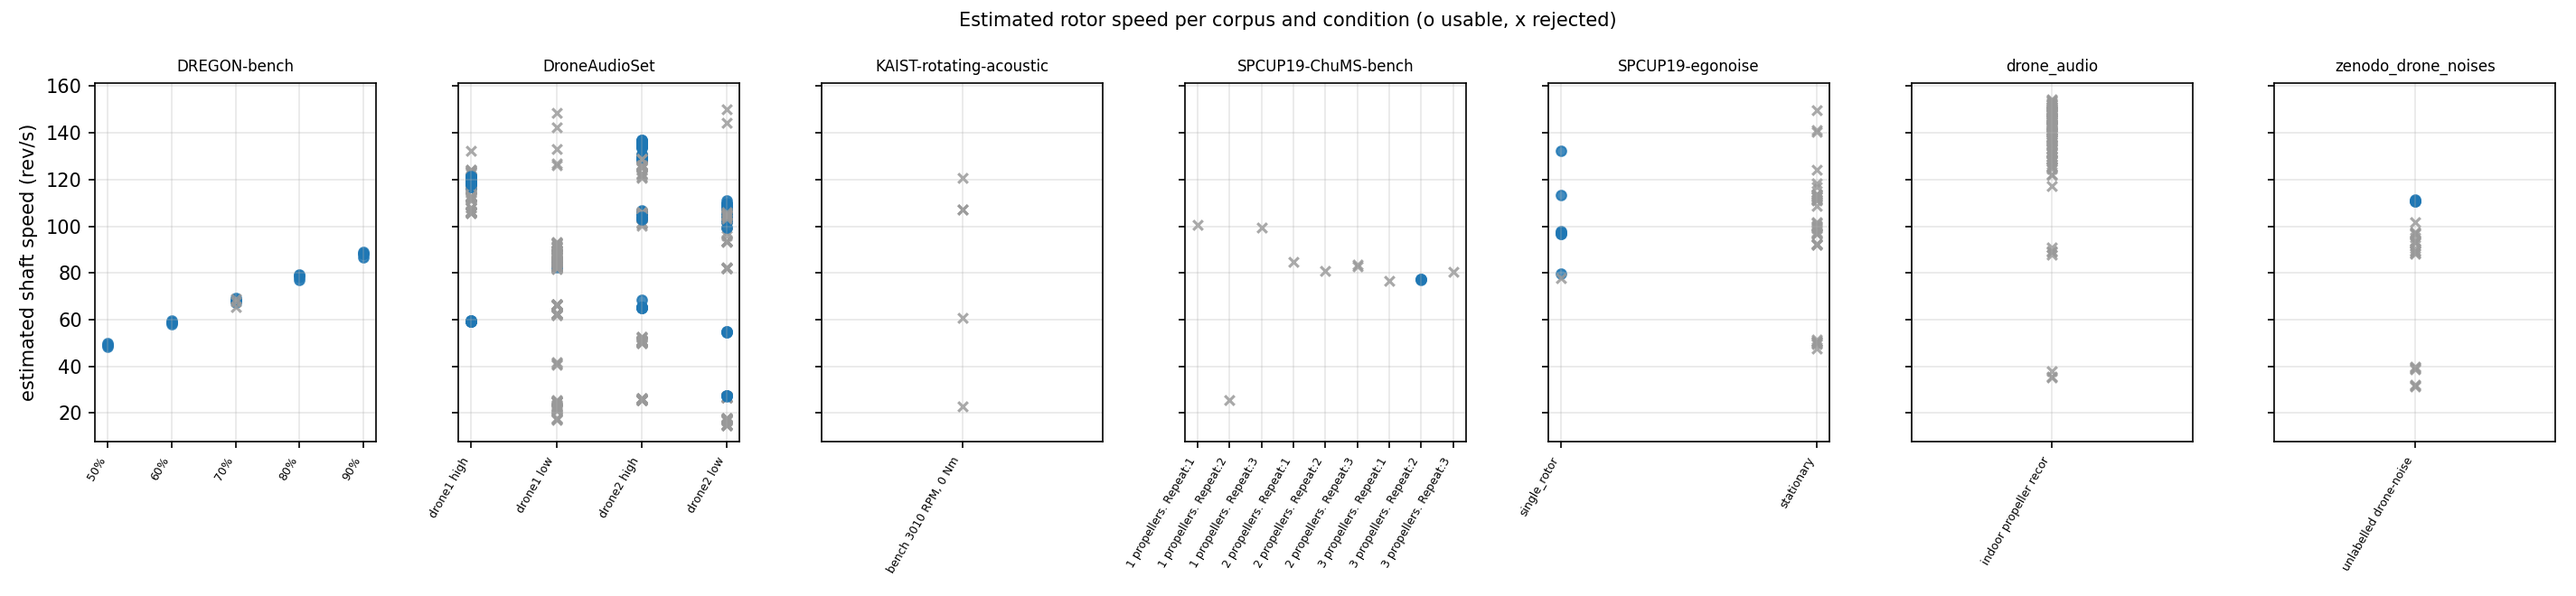
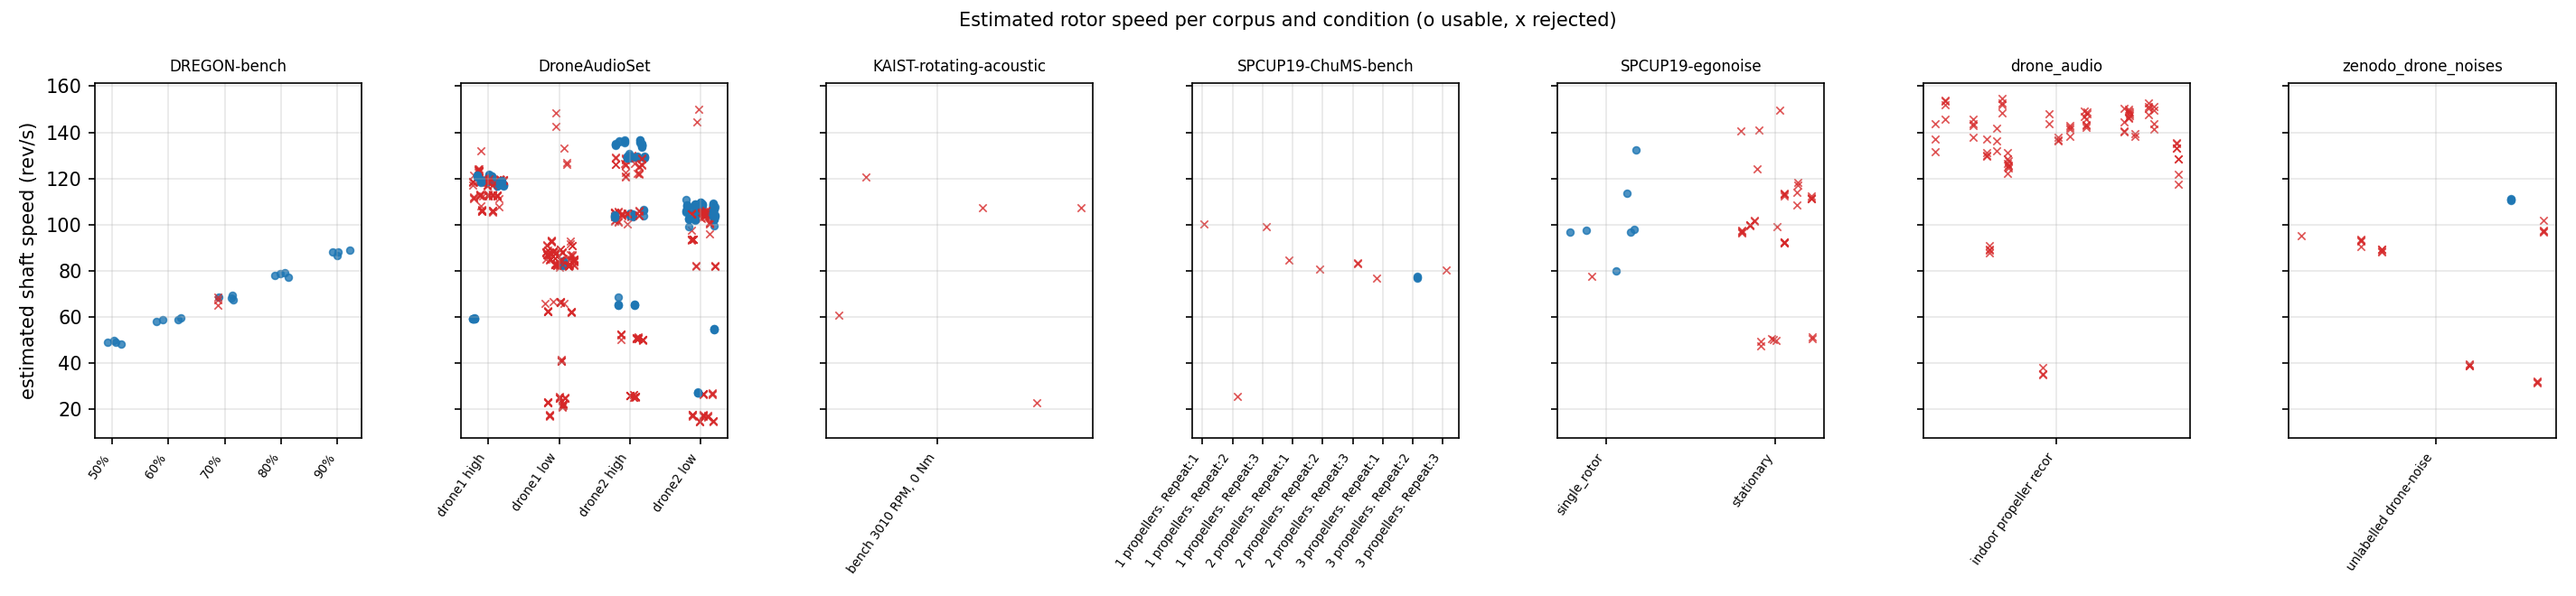
noise-v2 survey figure: jitter + usable/rejected colours

diff --git a/scripts/noise_v2_shaft_phase.py b/scripts/noise_v2_shaft_phase.py
@@ -75,12 +75,12 @@ ROOT = Path(__file__).resolve().parents[1]
 if str(ROOT / "src") not in sys.path:
     sys.path.insert(0, str(ROOT / "src"))
 
-import matplotlib
+import matplotlib  # noqa: E402
 
 matplotlib.use("Agg")
-import matplotlib.pyplot as plt
-from scipy.optimize import least_squares
-from scipy.signal import butter, sosfilt_zi, sosfiltfilt, sosfreqz, welch
+import matplotlib.pyplot as plt  # noqa: E402
+from scipy.optimize import least_squares  # noqa: E402
+from scipy.signal import butter, sosfiltfilt, sosfreqz, welch  # noqa: E402
 
 # ─── frozen analysis constants ────────────────────────────────────────────────
 
@@ -483,9 +483,7 @@ def quantisation(track: NativeTrack) -> dict[str, Any]:
     step = float(np.percentile(nz, 0.5))
     ratios = nz / step
     out["step_rps_measured"] = step
-    out["near_integer_fraction"] = float(
-        (np.abs(ratios - np.round(ratios)) < 0.05).mean()
-    )
+    out["near_integer_fraction"] = float((np.abs(ratios - np.round(ratios)) < 0.05).mean())
     out["distinct_values"] = int(np.unique(np.round(track.raw_rps / step)).size)
     declared = DECLARED_STEP_RPS.get(track.rig)
     if declared is not None:
@@ -517,7 +515,9 @@ def lag_grid(fs: float, hi_s: float = S_LAG_MAX_S, n: int = S_N_LAGS) -> np.ndar
     return np.unique(np.round(np.geomspace(lo, hi, n) * fs).astype(np.int64))
 
 
-def structure_function(theta_parts: list[np.ndarray], lags: np.ndarray) -> tuple[np.ndarray, np.ndarray]:
+def structure_function(
+    theta_parts: list[np.ndarray], lags: np.ndarray
+) -> tuple[np.ndarray, np.ndarray]:
     """``(S, n)`` for ``S(tau) = Var[theta(t+tau) - theta(t)]`` pooled over parts."""
     num = np.zeros(lags.size)
     cnt = np.zeros(lags.size)
@@ -548,7 +548,9 @@ def local_slope(tau: np.ndarray, s: np.ndarray) -> np.ndarray:
     return out
 
 
-def slope_crossing(tau: np.ndarray, slope: np.ndarray, target: float = SLOPE_TARGET) -> float | None:
+def slope_crossing(
+    tau: np.ndarray, slope: np.ndarray, target: float = SLOPE_TARGET
+) -> float | None:
     """First lag where the local slope drops through ``target`` (log-interpolated)."""
     ok = np.isfinite(slope)
     t, s = tau[ok], slope[ok]
@@ -807,6 +809,7 @@ def analyse_telemetry_rig(
 
 def pool_rotors(per_rotor: list[dict[str, Any]]) -> dict[str, Any]:
     """Median over rotors of the identified per-rotor quantities."""
+
     def med(path: list[str]) -> float | None:
         vals = []
         for row in per_rotor:
@@ -836,9 +839,7 @@ def pool_rotors(per_rotor: list[dict[str, Any]]) -> dict[str, Any]:
         "tau_slope1p5_s": med(["tau_slope1p5_s"]),
         "lam_from_slope1p5_1_s": med(["lam_from_slope1p5_1_s"]),
         "nu_rms_rad_s": med(["nu_rms_rad_s"]),
-        "preferred_by_aic": (
-            max(set(prefs), key=prefs.count) if prefs else None
-        ),
+        "preferred_by_aic": (max(set(prefs), key=prefs.count) if prefs else None),
         "n_rotors_preferring_ou": int(sum(p == "ou" for p in prefs)),
     }
 
@@ -920,7 +921,6 @@ RATE_ERROR_INVARIANT = (
     "|gamma(tau)| is invariant to a constant rate error: the lagged product "
     "gains only the t-independent factor exp(-i 2 pi k d tau)"
 )
-
 
 
 def _raw_g2(zd: np.ndarray, lag: int) -> np.ndarray:
@@ -1026,7 +1026,6 @@ def cross_g2(
     n_increments = max((zk.shape[1] - lag) / max(oversamp, float(lag)), 2.0)
     floor = np.clip(np.asarray(sur, dtype=np.float64) + 1.0 / n_increments, 0.0, 0.95)
     return (g2 - floor) / (1.0 - floor), floor
-
 
 
 def unwrapped_V(zd: np.ndarray, lag: int, oversamp: float) -> tuple[np.ndarray, float]:
@@ -1163,15 +1162,13 @@ def fit_Vk(
                     return k**2 * v_theta(t, sigma, lam) + 2.0 * dk[j] * np.abs(t)
 
                 if estimator == "unwrapped":
-                    out[sel] = (
-                        0.5 * (vk(a[sel]) + vk(b[sel]) - 2.0 * vk(c0)[None, :])
-                    ) @ s_w + ck[j]
+                    out[sel] = (0.5 * (vk(a[sel]) + vk(b[sel]) - 2.0 * vk(c0)[None, :])) @ s_w + ck[
+                        j
+                    ]
                 else:
                     cc = np.exp(-0.5 * np.clip(vk(a[sel]), 0.0, 700.0)) @ s_w
                     c00 = float(np.exp(-0.5 * np.clip(vk(c0), 0.0, 700.0)) @ s_w)
-                    out[sel] = (
-                        -2.0 * np.log(np.maximum(cc / max(c00, 1e-300), 1e-300)) + ck[j]
-                    )
+                    out[sel] = -2.0 * np.log(np.maximum(cc / max(c00, 1e-300), 1e-300)) + ck[j]
             return out
 
         return predict
@@ -1293,12 +1290,9 @@ def analyse_acoustic_support(
             "isolation_hz": list(isolation),
         }
     dm = demod_orders(audio, fs, centres, window, hop, k_max)
-    z, ts = dm["z"], dm["ts"]
+    z = dm["z"]
     margins = {k: band_margin_db(z, k) for k in range(1, k_max + 1)}
-    keep = {
-        k: np.flatnonzero(margins[k] >= MARGIN_MIN_DB)
-        for k in range(1, k_max + 1)
-    }
+    keep = {k: np.flatnonzero(margins[k] >= MARGIN_MIN_DB) for k in range(1, k_max + 1)}
     if isolation is not None:
         for k in range(1, k_max + 1):
             if isolation[k - 1] < 2.0 * res_bw_hz:
@@ -1334,8 +1328,9 @@ def analyse_acoustic_support(
     # correlation, and its whole effect is the constant c_k the fit carries.
     lag_lo = max(ACOUSTIC_LAG_LO_S, float(window) / fs)
     lags = np.unique(
-        np.round(np.geomspace(lag_lo, max(lag_hi, 1.05 * lag_lo), ACOUSTIC_N_LAGS)
-                 * dm["frame_rate_hz"]).astype(int)
+        np.round(
+            np.geomspace(lag_lo, max(lag_hi, 1.05 * lag_lo), ACOUSTIC_N_LAGS) * dm["frame_rate_hz"]
+        ).astype(int)
     )
     lags = lags[(lags >= int(round(oversamp))) & (lags < dm["n_frames"] - 2)]
     if lags.size < 3:
@@ -1387,29 +1382,27 @@ def analyse_acoustic_support(
     # the §5.1 cross-order estimate of the SAME shaft structure function
     cross: list[dict[str, Any]] = []
     for i, k in enumerate(orders):
-        for l in orders[i + 1 :]:
-            common = np.intersect1d(keep[k], keep[l])
+        for m2 in orders[i + 1 :]:
+            common = np.intersect1d(keep[k], keep[m2])
             if common.size < 2:
                 continue
             vals = []
             for j, lag in enumerate(lags):
                 pk = sur[k][common][:, int(lag) :] * np.conj(sur[k][common][:, : -int(lag)])
-                pl = sur[l][common][:, int(lag) :] * np.conj(sur[l][common][:, : -int(lag)])
+                pl = sur[m2][common][:, int(lag) :] * np.conj(sur[m2][common][:, : -int(lag)])
                 q = pk * np.conj(pl)
                 num = np.abs(q.sum(axis=1))
                 den = np.sqrt((np.abs(pk) ** 2).sum(axis=1) * (np.abs(pl) ** 2).sum(axis=1))
                 f_raw = (num / np.maximum(den, 1e-300)) ** 2
-                arr, floor = cross_g2(
-                    zd[k][common], zd[l][common], f_raw, int(lag), oversamp
-                )
+                arr, floor = cross_g2(zd[k][common], zd[m2][common], f_raw, int(lag), oversamp)
                 m, se, n, _ = g2_stats(arr, floor)
                 vd, _unused = g2_to_V(m, se, n)
-                vk, vl = Vk[k][j], Vk[l][j]
+                vk, vl = Vk[k][j], Vk[m2][j]
                 if vd is None or vk is None or vl is None:
                     vals.append(None)
                     continue
-                vals.append(0.5 * (vk + vl - vd) / (k * l))
-            cross.append({"k": k, "l": l, "n_mics": int(common.size), "V_theta_rad2": vals})
+                vals.append(0.5 * (vk + vl - vd) / (k * m2))
+            cross.append({"k": k, "l": m2, "n_mics": int(common.size), "V_theta_rad2": vals})
 
     marg = {int(k): float(np.median(margins[k])) for k in orders}
     fits = fit_cells(orders, taus, Vu, Us, window, fs, marg, estimator="unwrapped")
@@ -1491,9 +1484,7 @@ def fit_cells(
     snr = np.array([max(10.0 ** (margins.get(int(k), 6.0) / 10.0) - 1.0, 1e-3) for k in uk_a])
     c_meas = 1.0 / snr if estimator == "unwrapped" else 2.0 * np.log1p(1.0 / snr)
     fits: dict[str, Any] = {
-        m: fit_Vk(
-            ks_a, tau_a, v_a, w_a, m, s_grid, s_w, c_meas, estimator=estimator, v_cut=cut
-        )
+        m: fit_Vk(ks_a, tau_a, v_a, w_a, m, s_grid, s_w, c_meas, estimator=estimator, v_cut=cut)
         for m in ACOUSTIC_MODELS
     }
     fits["best_by_aic"] = min(
@@ -1804,7 +1795,7 @@ def run_michaels_acoustic(limit: int | None) -> dict[str, Any]:
                     float(np.mean(rps[q])) * kk
                     for q in range(rps.shape[0])
                     for kk in range(1, K_MAX_ACOUSTIC + 3)
-                    if not (q == r)
+                    if q != r
                 ]
             )
             iso = []
@@ -1896,9 +1887,9 @@ def telemetry_verdict(rep: dict[str, Any]) -> dict[str, Any]:
         "sigma_nu_rad_s_hp05": pooled.get("sigma_nu_rad_s"),
         "lam_1_s_hp05": pooled.get("lam_1_s"),
         "D_theta_rad2_s_hp05": d_ou,
-        "sigma_nu_rad_s_hp2": (rep["highpass"].get("2") or {}).get("pooled", {}).get(
-            "sigma_nu_rad_s"
-        ),
+        "sigma_nu_rad_s_hp2": (rep["highpass"].get("2") or {})
+        .get("pooled", {})
+        .get("sigma_nu_rad_s"),
         "lam_1_s_hp2": (rep["highpass"].get("2") or {}).get("pooled", {}).get("lam_1_s"),
         "sigma_nu_rad_s_detrend": wide.get("sigma_nu_rad_s"),
         "lam_1_s_detrend": wide.get("lam_1_s"),
@@ -1978,9 +1969,7 @@ def acoustic_verdict(rows: list[dict[str, Any]]) -> dict[str, Any]:
         dks = np.asarray(f["D_k_rad2_s"], dtype=float)
         m = np.isfinite(dks) & (dks > 0) & (ks > 0)
         if m.sum() >= 3:
-            dk_slope.append(
-                float(np.polyfit(np.log(ks[m]), np.log(dks[m]), 1)[0])
-            )
+            dk_slope.append(float(np.polyfit(np.log(ks[m]), np.log(dks[m]), 1)[0]))
     lam_med = float(np.median(lam)) if lam else None
     verdict = "unidentified"
     if lam_med is not None:
@@ -2045,9 +2034,7 @@ def build_comparison(res: dict[str, Any]) -> dict[str, Any]:
             if d:
                 sig_eq = math.sqrt(d * ref["lam_ref"])
                 row.setdefault("sigma_at_lam_ref", {})[src] = sig_eq
-                row.setdefault("ratio_c3_over_measured", {})[src] = (
-                    ref["sigma_rad_s"] / sig_eq
-                )
+                row.setdefault("ratio_c3_over_measured", {})[src] = ref["sigma_rad_s"] / sig_eq
         out["rows"].append(row)
     return out
 
@@ -2265,8 +2252,15 @@ def fig_acoustic_Vk(res: dict[str, Any], paths: list[Path]) -> None:
             v = np.array([np.nan if x is None else x for x in series], dtype=float)
             if v.size != tau.size:
                 continue
-            ax.loglog(tau, v / k**2, color=cmap((k - 1) / max(K_MAX_ACOUSTIC - 1, 1)),
-                      marker="o", ms=2.2, lw=1.0, label=f"k={k}")
+            ax.loglog(
+                tau,
+                v / k**2,
+                color=cmap((k - 1) / max(K_MAX_ACOUSTIC - 1, 1)),
+                marker="o",
+                ms=2.2,
+                lw=1.0,
+                label=f"k={k}",
+            )
         f = row["fits"].get("ou_free_D", {})
         if f.get("identified") and f.get("sigma_nu_rad_s"):
             ax.loglog(
@@ -2322,8 +2316,9 @@ def fig_Dk_vs_k(res: dict[str, Any], paths: list[Path]) -> None:
         lim = ax.get_ylim()
         kk = np.array([1.0, float(K_MAX_ACOUSTIC)])
         for pw, ls in ((0.0, "--"), (1.0, "-."), (2.0, ":")):
-            ax.plot(kk, np.sqrt(lim[0] * lim[1]) * (kk / kk[0]) ** pw, "k", ls=ls, lw=0.8,
-                    alpha=0.6)
+            ax.plot(
+                kk, np.sqrt(lim[0] * lim[1]) * (kk / kk[0]) ** pw, "k", ls=ls, lw=0.8, alpha=0.6
+            )
         ax.set_ylim(lim)
     for ax in axes[len(groups) :]:
         ax.axis("off")
@@ -2420,9 +2415,7 @@ def summary_rows(res: dict[str, Any]) -> list[list[str]]:
                 _f(v.get("lam_1_s_median")),
                 _f(1.0 / v["lam_1_s_median"] if v.get("lam_1_s_median") else None),
                 _f(v.get("D_theta_rad2_s_median")),
-                _f(
-                    U_SLOPE_1P5 / v["lam_1_s_median"] if v.get("lam_1_s_median") else None
-                ),
+                _f(U_SLOPE_1P5 / v["lam_1_s_median"] if v.get("lam_1_s_median") else None),
                 "n/a",
                 "n/a",
             ]
@@ -2474,7 +2467,11 @@ def write_findings(res: dict[str, Any], out_dir: Path) -> Path:
     for rig, rep in tel.items():
         v = rep.get("verdict") or {}
         q = rep.get("quantisation") or {}
-        aux = " This rig is AUXILIARY: it is a command track, not a speed measurement." if rep.get("auxiliary") else ""
+        aux = (
+            " This rig is AUXILIARY: it is a command track, not a speed measurement."
+            if rep.get("auxiliary")
+            else ""
+        )
         A(
             f"- **{rig}** ({rep['rps_key']}, {rep['fs_hz']:.0f} Hz, {rep['n_flights']} flights, "
             f"{rep.get('analysed_seconds', 0):.0f} s analysed). Verdict **{v.get('verdict')}**: "
@@ -2621,15 +2618,15 @@ def resolve_rigs(spec: list[str]) -> list[str]:
 
 
 def main(argv: list[str] | None = None) -> int:
-    ap = argparse.ArgumentParser(description=__doc__, formatter_class=argparse.RawDescriptionHelpFormatter)
+    ap = argparse.ArgumentParser(
+        description=__doc__, formatter_class=argparse.RawDescriptionHelpFormatter
+    )
     ap.add_argument("--rigs", nargs="+", default=["all"], help="rig/support names or aliases")
     ap.add_argument("--limit", type=int, default=None, help="max flights/recordings per rig")
     ap.add_argument("--out", type=Path, default=ROOT / "results/noise_v2/shaft")
     ap.add_argument("--figdir", type=Path, default=ROOT / "docs/explainers/noise-model-v2-plan")
     ap.add_argument("--no-figures", action="store_true")
-    ap.add_argument(
-        "--no-control", action="store_true", help="skip the planted acoustic control"
-    )
+    ap.add_argument("--no-control", action="store_true", help="skip the planted acoustic control")
     args = ap.parse_args(argv)
 
     wanted = resolve_rigs(args.rigs)

diff --git a/scripts/noise_v2_corpus_survey.py b/scripts/noise_v2_corpus_survey.py
@@ -435,19 +435,21 @@ def draw_speeds(rows: list[dict], out_dir: Path, fig_dir: Path) -> str:
         rs = groups[corpus]
         labels = sorted({_condition_key(r) for r in rs})
         pos = {k: i for i, k in enumerate(labels)}
+        rng = np.random.default_rng(7)
         for r in rs:
-            x = pos[_condition_key(r)]
-            style = dict(marker="o", s=26) if r["usable"] else dict(marker="x", s=26)
+            x = pos[_condition_key(r)] + float(rng.uniform(-0.22, 0.22))
+            style = dict(marker="o", s=14) if r["usable"] else dict(marker="x", s=16)
             for value in r["speed_rev_s"]:
                 ax.scatter(
-                    x + 0.0,
+                    x,
                     float(value),
-                    color="#1f77b4" if r["usable"] else "#999999",
-                    alpha=0.85,
+                    color="#1f77b4" if r["usable"] else "#d62728",
+                    alpha=0.8,
+                    linewidths=0.8,
                     **style,
                 )
         ax.set_xticks(range(len(labels)))
-        ax.set_xticklabels(labels, rotation=60, ha="right", fontsize=6)
+        ax.set_xticklabels(labels, rotation=55, ha="right", fontsize=6.5)
         ax.set_title(corpus, fontsize=8)
         ax.grid(alpha=0.3)
     axes[0].set_ylabel("estimated shaft speed (rev/s)")
